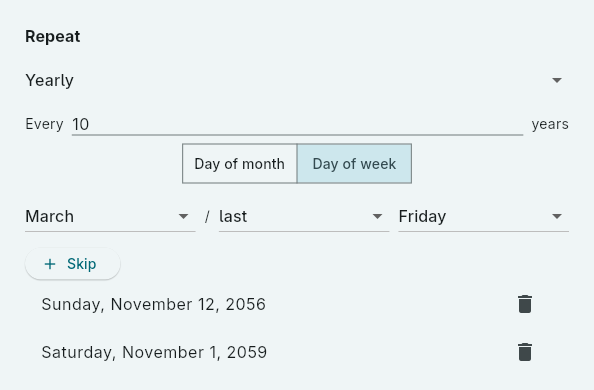
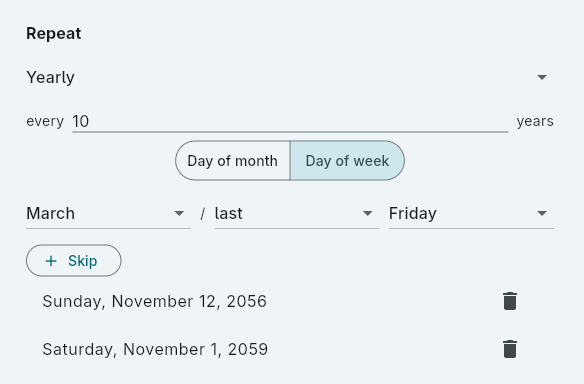
Fix default look and feel
* Replace ElevatedButton with OutlinedButton on excluded dates.
* Do not set custom border rounding in defaultSegmentedButtonStyle.

diff --git a/packages/rrule_picker/test/src/excluded_dates_test.dart b/packages/rrule_picker/test/src/excluded_dates_test.dart
@@ -28,7 +28,7 @@ void main() {
     testWidgets('renders add button with correct localization', (tester) async {
       await tester.pumpWrapped(ExcludedDates(controller: controller));
 
-      spot<ElevatedButton>().existsOnce();
+      spot<OutlinedButton>().existsOnce();
       spotIcon(Icons.add).existsOnce();
       final text = tester.localizations<ExcludedDates>().rrulePickerSkip;
       spotText(text, exact: true).existsOnce();
@@ -37,7 +37,7 @@ void main() {
     testWidgets('shows date picker when add button is pressed', (tester) async {
       await tester.pumpWrapped(ExcludedDates(controller: controller));
 
-      await act.tap(spot<ElevatedButton>());
+      await act.tap(spot<OutlinedButton>());
       await tester.pumpAndSettle();
 
       spot<DatePickerDialog>().existsOnce();
@@ -46,7 +46,7 @@ void main() {
     testWidgets('adds date to list when date is selected', (tester) async {
       await tester.pumpWrapped(ExcludedDates(controller: controller));
 
-      await act.tap(spot<ElevatedButton>());
+      await act.tap(spot<OutlinedButton>());
       await tester.pumpAndSettle();
 
       await act.tap(

diff --git a/packages/rrule_picker/test/theme_test.dart b/packages/rrule_picker/test/theme_test.dart
@@ -82,12 +82,7 @@ void main() {
       expect(RRulePickerThemeData.defaultPadding, const EdgeInsets.all(0));
       expect(
         RRulePickerThemeData.defaultSegmentedButtonStyle,
-        const ButtonStyle(
-          visualDensity: .standard,
-          shape: WidgetStatePropertyAll(
-            RoundedRectangleBorder(borderRadius: .zero),
-          ),
-        ),
+        const ButtonStyle(visualDensity: .standard),
       );
     });
 

diff --git a/packages/rrule_picker/lib/theme.dart b/packages/rrule_picker/lib/theme.dart
@@ -12,7 +12,6 @@ class RRulePickerThemeData extends ThemeExtension<RRulePickerThemeData> {
   static const defaultPadding = EdgeInsets.all(0);
   static const defaultSegmentedButtonStyle = ButtonStyle(
     visualDensity: .standard,
-    shape: WidgetStatePropertyAll(RoundedRectangleBorder(borderRadius: .zero)),
   );
 
   /// The text style for labels in the picker.

diff --git a/packages/rrule_picker/lib/src/excluded_dates.dart b/packages/rrule_picker/lib/src/excluded_dates.dart
@@ -30,7 +30,7 @@ class _ExcludedDatesState extends State<ExcludedDates> {
 
   @override
   Widget build(BuildContext context) {
-    final addButton = ElevatedButton.icon(
+    final addButton = OutlinedButton.icon(
       label: Text(RRulePickerLocalizations.of(context).rrulePickerSkip),
       icon: const Icon(Icons.add),
       onPressed: () async {

diff --git a/packages/rrule_picker/test/widget_test.dart b/packages/rrule_picker/test/widget_test.dart
@@ -145,7 +145,7 @@ void main() {
           ),
         );
 
-        await act.tap(spot<ElevatedButton>());
+        await act.tap(spot<OutlinedButton>());
         await tester.pumpAndSettle();
         await act.tap(spot<DatePickerDialog>().spotText('OK'));
         await tester.pumpAndSettle();
